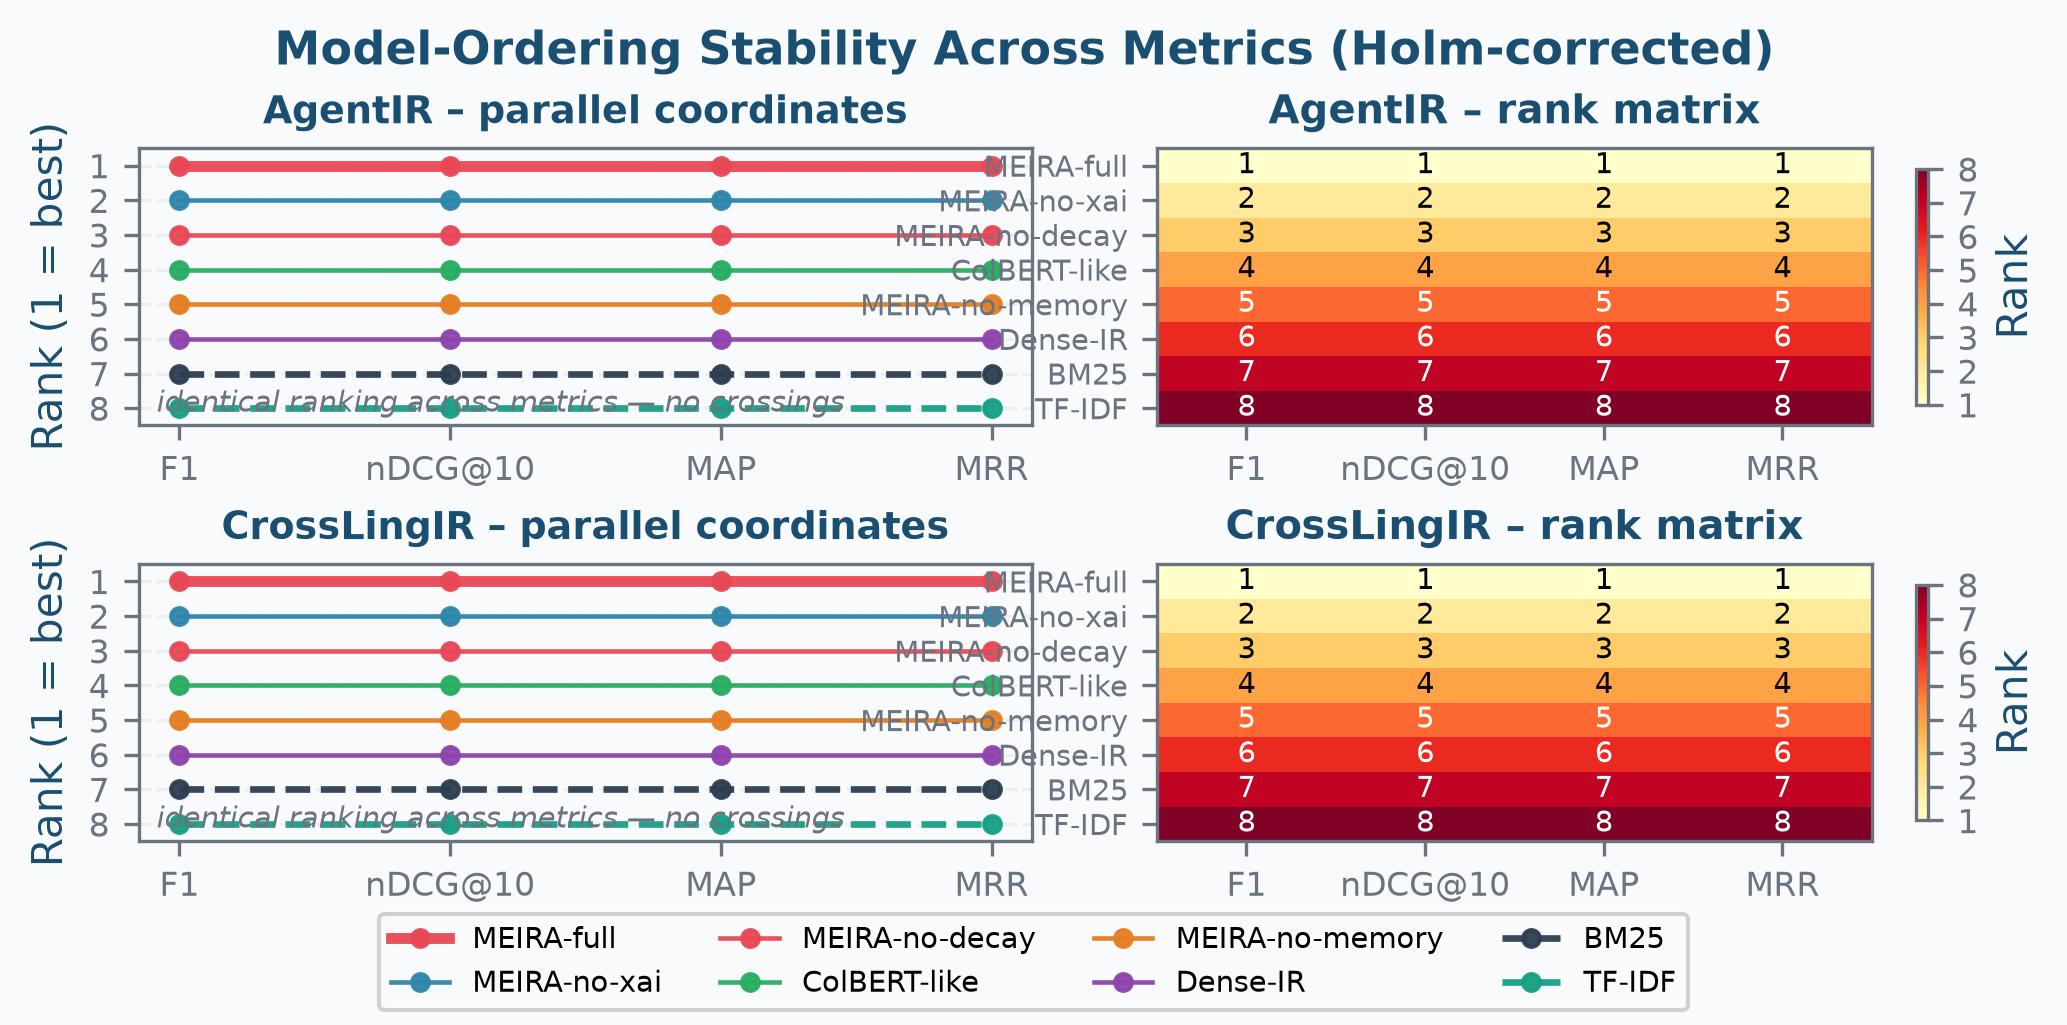
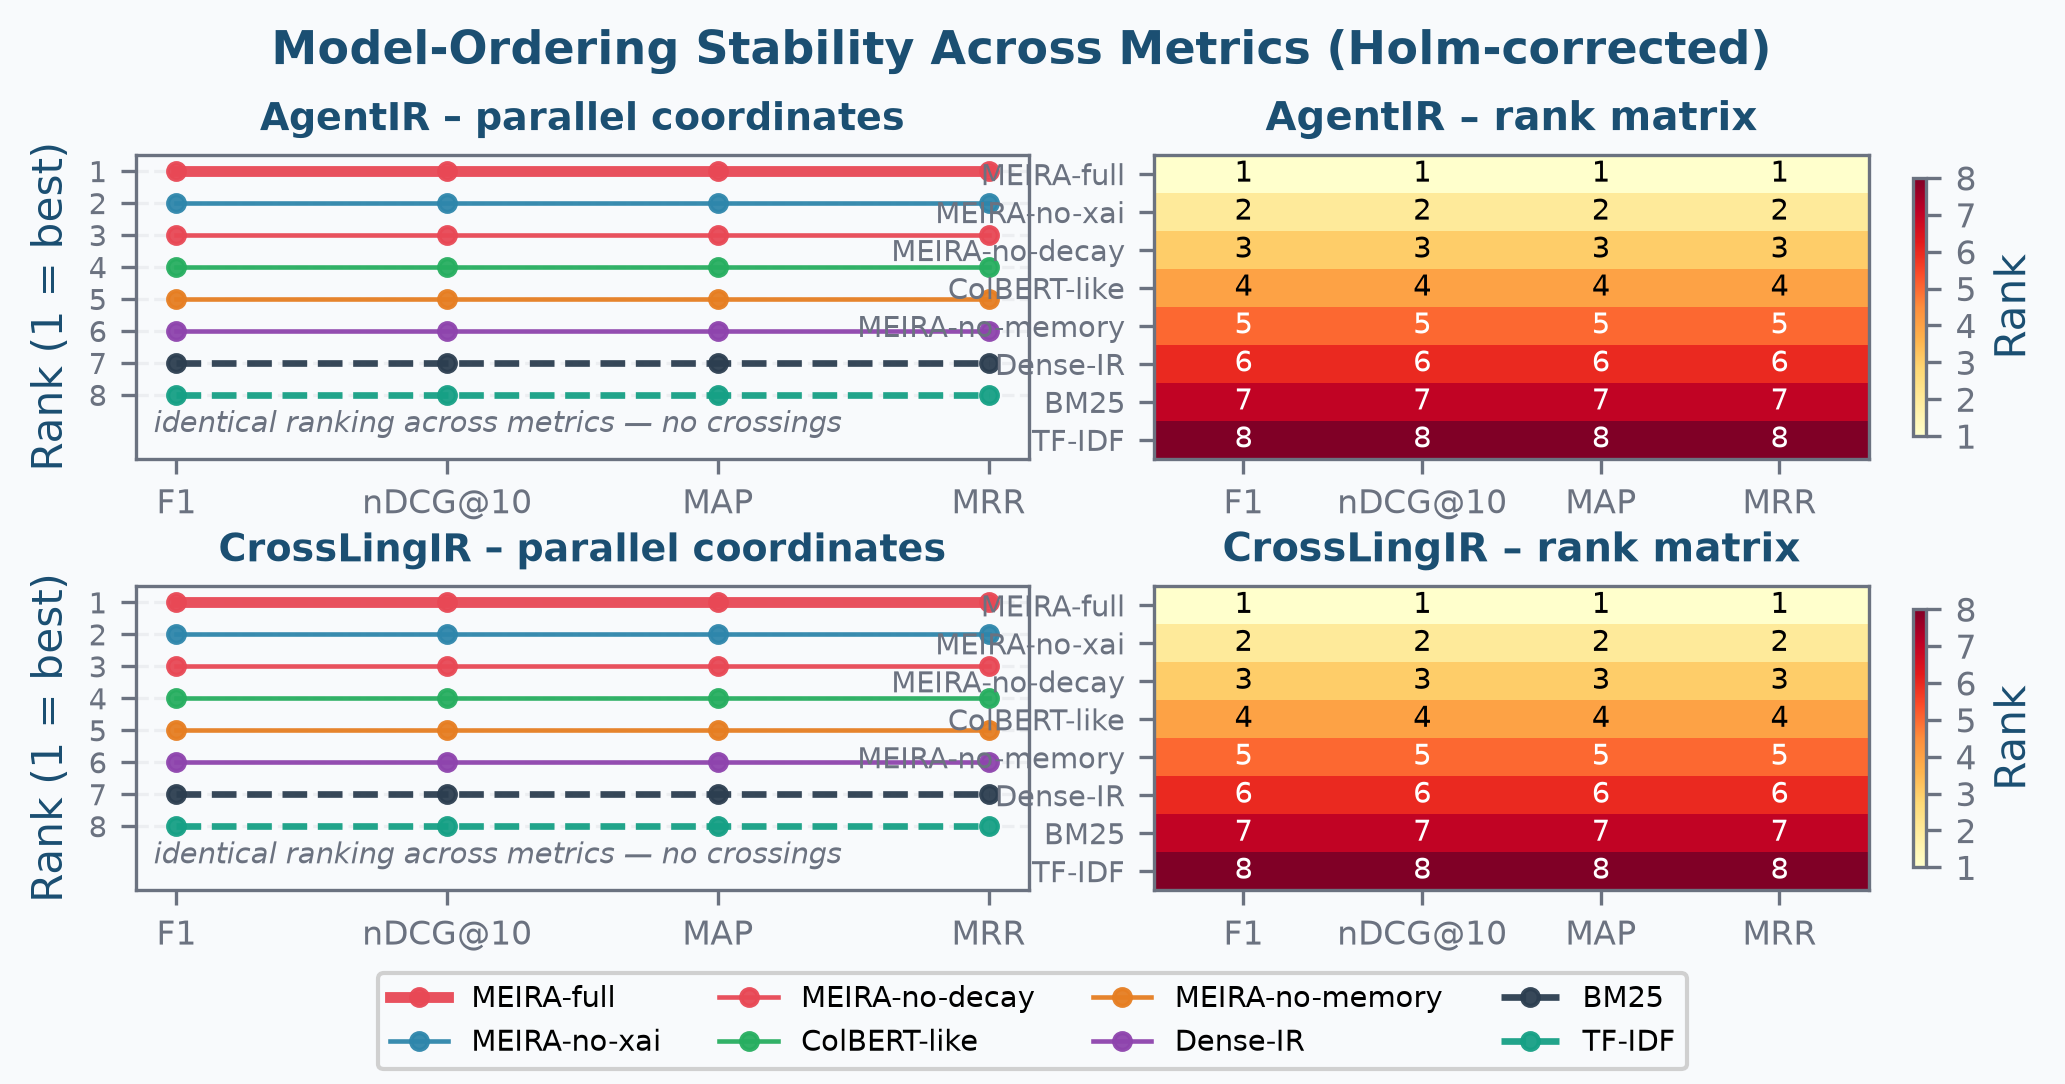
Fix parallel-coordinates caption overlapping the rank-8 line; add text-vs-line audit check
- compare_metric_orderings.py: status caption was drawn at axes-fraction
  y=0.05, right on top of the TF-IDF (rank 8) polyline in both panels.
  Added bottom ylim headroom, anchored the caption with va="bottom",
  sized the panels so the rank ticks keep clearance, and trimmed the
  figure to 3.50in / hspace 0.42 so row-1 x labels clear row-2 titles.
- audit_figures.py: new text_line check (data text vs labeled Line2D
  polylines) so text-through-line collisions are caught like the one
  that shipped in Fig 3.

Changed region(s): [[0.0, 0.0312, 0.9918, 0.9678], [0.5579, 0.0937, 0.8988, 0.1873], [0.8368, 0.8429, 0.8988, 0.8741]]

diff --git a/audit_figures.py b/audit_figures.py
@@ -11,6 +11,9 @@ generating functions, instruments matplotlib's Text objects, and measures:
      legend texts are intentional and excluded)
   5. text drawn on top of bar patches (text_bar; multi-segment error-bar
      lines are excluded - their bounding box spans every bar)
+  6. data text overlapping data lines in the same axes (text_line;
+     e.g. a caption drawn through a polyline - only labeled Line2D
+     artists are considered, so gridlines/errorbar caps are skipped)
 
 Measurement happens on the normal canvas BEFORE the tight-bbox savefig re-
 renders at a different size, and text records are reset per figure so stale
@@ -31,11 +34,13 @@ import json
 import os
 import sys
 
+import numpy as np
 import matplotlib
 matplotlib.use("Agg")
 import matplotlib.pyplot as plt
 from matplotlib.figure import Figure
 import matplotlib.text
+from matplotlib.path import Path
 
 BASE = os.path.dirname(os.path.abspath(__file__))
 sys.path.insert(0, BASE)
@@ -82,7 +87,7 @@ def audit(fig, name):
     r = fig.canvas.get_renderer()
     W, H = fig.canvas.get_width_height()
     issues = {"text_text": [], "clip": [], "title_overflow": [],
-              "beyond_axes": [], "text_bar": []}
+              "beyond_axes": [], "text_bar": [], "text_line": []}
 
     # texts whose position outside the axes is intentional
     intentional = set()
@@ -153,6 +158,32 @@ def audit(fig, name):
                 if ix > 0.5 and iy > 0.5 and ix * iy > 9:
                     issues["text_bar"].append((repr(t.get_text())[:24],
                                                round(ix * iy, 1)))
+
+    # data text overlapping data lines (labeled Line2D only: excludes
+    # gridlines and errorbar cap segments)
+    for ax in fig.axes:
+        lines = [ln for ln in ax.lines
+                 if isinstance(ln, matplotlib.lines.Line2D)
+                 and ln.get_label() and not ln.get_label().startswith("_")]
+        if not lines:
+            continue
+        for t, tb in boxes:
+            if getattr(t, "axes", None) is not ax or id(t) in intentional:
+                continue
+            for ln in lines:
+                try:
+                    pts = ax.transData.transform(
+                        np.column_stack([ln.get_xdata(), ln.get_ydata()]))
+                except Exception:
+                    continue
+                for (x0, y0), (x1, y1) in zip(pts[:-1], pts[1:]):
+                    seg = Path([(x0, y0), (x1, y1)])
+                    if seg.intersects_bbox(tb, filled=False):
+                        issues["text_line"].append(
+                            (repr(t.get_text())[:24], _role_of(t, fig),
+                             repr(ln.get_label())[:18],
+                             round(tb.height, 1)))
+                        break
 
     print(f"\n===== {name} =====  (canvas {W}x{H}, non-empty texts {len(boxes)})")
     n_bad = 0

diff --git a/compare_metric_orderings.py b/compare_metric_orderings.py
@@ -199,9 +199,9 @@ def fig_ordering_stability(ds_results, models, tag, method="holm"):
     # (hspace) clears the x labels and colorbar end ticks; explicit colorbar
     # ticks avoid 0.0/10.0 overhang labels. TUNED to the current data/fonts -
     # re-run audit_figures.py after any data, seed, or font change.
-    fig = plt.figure(figsize=(7.2, 3.30))
+    fig = plt.figure(figsize=(7.2, 3.50))
     gs = fig.add_gridspec(n_ds, 2, left=0.09, right=0.975, top=0.87,
-                          bottom=0.17, wspace=0.14, hspace=0.50)
+                          bottom=0.17, wspace=0.14, hspace=0.42)
     axes = [[fig.add_subplot(gs[di, ci]) for ci in range(2)]
             for di in range(n_ds)]
     fig.suptitle("Model-Ordering Stability Across Metrics (Holm-corrected)",
@@ -234,8 +234,12 @@ def fig_ordering_stability(ds_results, models, tag, method="holm"):
             handles, labels = ax.get_legend_handles_labels()
         ax.set_xticks(x); ax.set_xticklabels(METRICS, fontsize=8)
         ax.set_yticks(range(1, len(models) + 1))
-        ax.tick_params(axis="y", labelsize=8)   # 1..8 ranks in a short panel
-        ax.set_ylim(len(models) + 0.5, 0.5)   # rank 1 on top
+        # labelsize 7 so the 8 rank digits clear each other once the panel
+        # carries the extra bottom headroom (audit: text_text=0)
+        ax.tick_params(axis="y", labelsize=7)
+        # Extra bottom headroom keeps the rank-8 (last) line clear of the
+        # italic status caption below it (audit_figures.py: text_vs_line=0).
+        ax.set_ylim(len(models) + 2.0, 0.5)   # rank 1 on top
         ax.set_ylabel("Rank (1 = best)")
         ax.grid(True, axis="y", alpha=0.6)
         ds_short = ds_name.split('-')[1] if '-' in ds_name else ds_name
@@ -243,8 +247,10 @@ def fig_ordering_stability(ds_results, models, tag, method="holm"):
                      color=PALETTE["primary"], fontweight="bold")
         msg = ("identical ranking across metrics — no crossings"
                if stable else "orderings differ across metrics")
-        ax.text(0.02, 0.05, msg, transform=ax.transAxes, fontsize=7,
-                color=PALETTE["neutral"], style="italic")
+        # va="bottom" + y=0.065 anchors the caption below the rank-8 line
+        # (line sits at 2.0/9.5 ≈ 0.21 of the panel height) with a clear gap.
+        ax.text(0.02, 0.065, msg, transform=ax.transAxes, fontsize=7,
+                va="bottom", color=PALETTE["neutral"], style="italic")
 
         ax2 = axes[di][1]
         mat = np.array([[res["rank"][met][m] for met in METRICS] for m in order])
